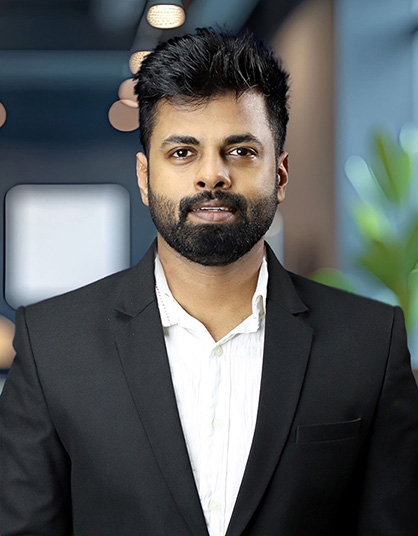
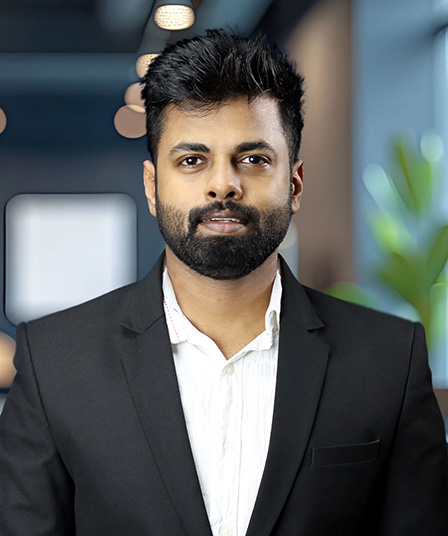
Changed

diff --git a/index.html b/index.html
@@ -19,8 +19,8 @@
   <meta property="og:description" content="Check out my latest projects and professional work.">
   <meta property="og:type" content="website">
   <meta property="og:url" content="https://abhimanue.in/">
-  <meta property="og:image" content="https://abhimanue.in/assets/img/Abhimanue-Udayan.jpg"> 
-  <meta property="og:image:secure_url" content="https://abhimanue.in/assets/img/Abhimanue-Udayan.jpg">
+  <meta property="og:image" content="https://abhimanue.in/assets/img/Abhimanue-Udayan-2025-SQ.jpg"> 
+  <meta property="og:image:secure_url" content="https://abhimanue.in/assets/img/Abhimanue-Udayan-2025-SQ.jpg">
   <meta property="og:image:type" content="image/jpeg">
   <meta property="og:image:width" content="1200">
   <meta property="og:image:height" content="630">
@@ -30,7 +30,7 @@
   <meta name="twitter:card" content="summary_large_image">
   <meta name="twitter:title" content="Abhimanue – Founder of Hexagon Know">
   <meta name="twitter:description" content="Explore my portfolio and work.">
-  <meta name="twitter:image" content="https://abhimanue.in/assets/img/Abhimanue-Udayan.jpg">
+  <meta name="twitter:image" content="https://abhimanue.in/assets/img/Abhimanue-Udayan-2025-SQ.jpg">
   <meta name="twitter:site" content="@abhimanue">
 
   <!-- Favicon -->
@@ -138,7 +138,7 @@
       <div class="row">
       <div class="col-lg-6 wow fadeInLeft">
   <div class="st-about-img-wrap">
-    <img src="assets/img/Abhimanue-Udayan.jpg"
+    <img src="assets/img/Abhimanue-Udayan-2025-SQ.jpg"
          alt="Abhimanue Udayan"
          class="st-about-img">
   </div>
